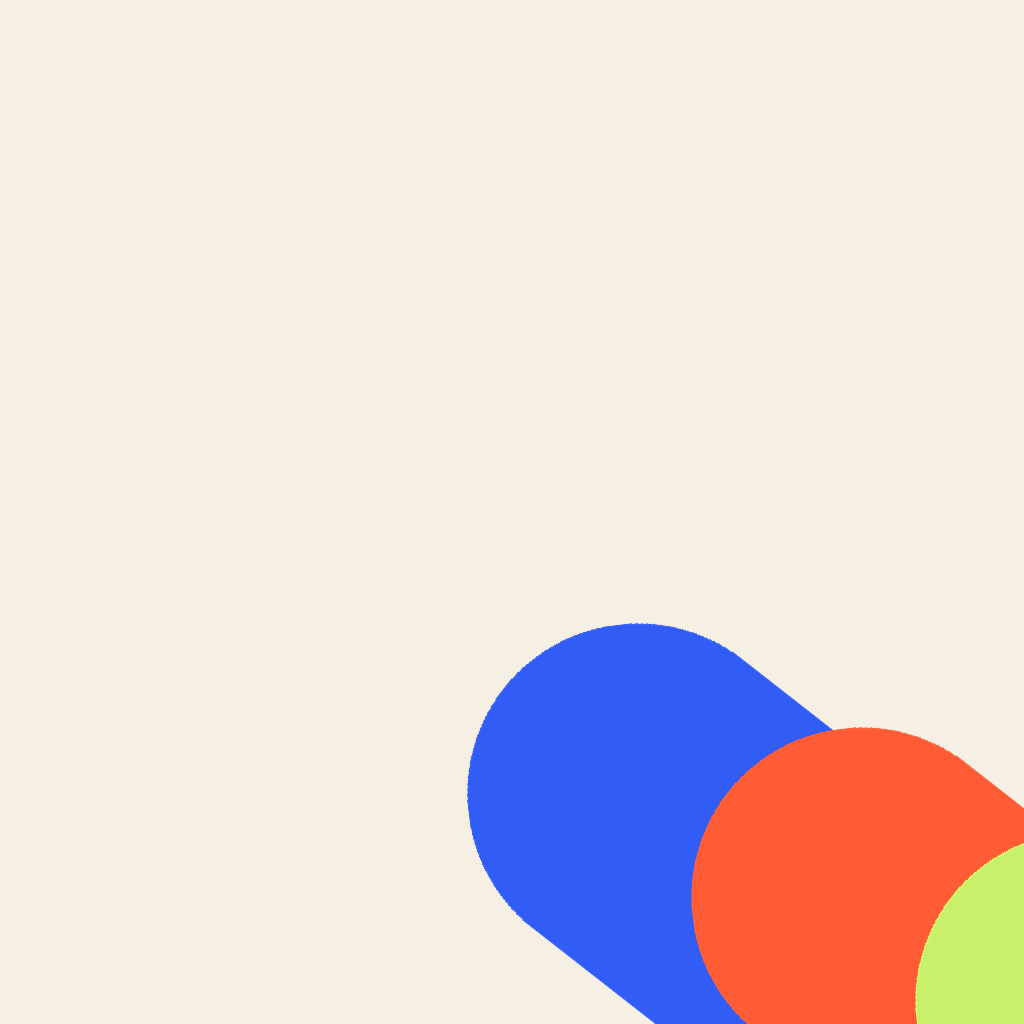
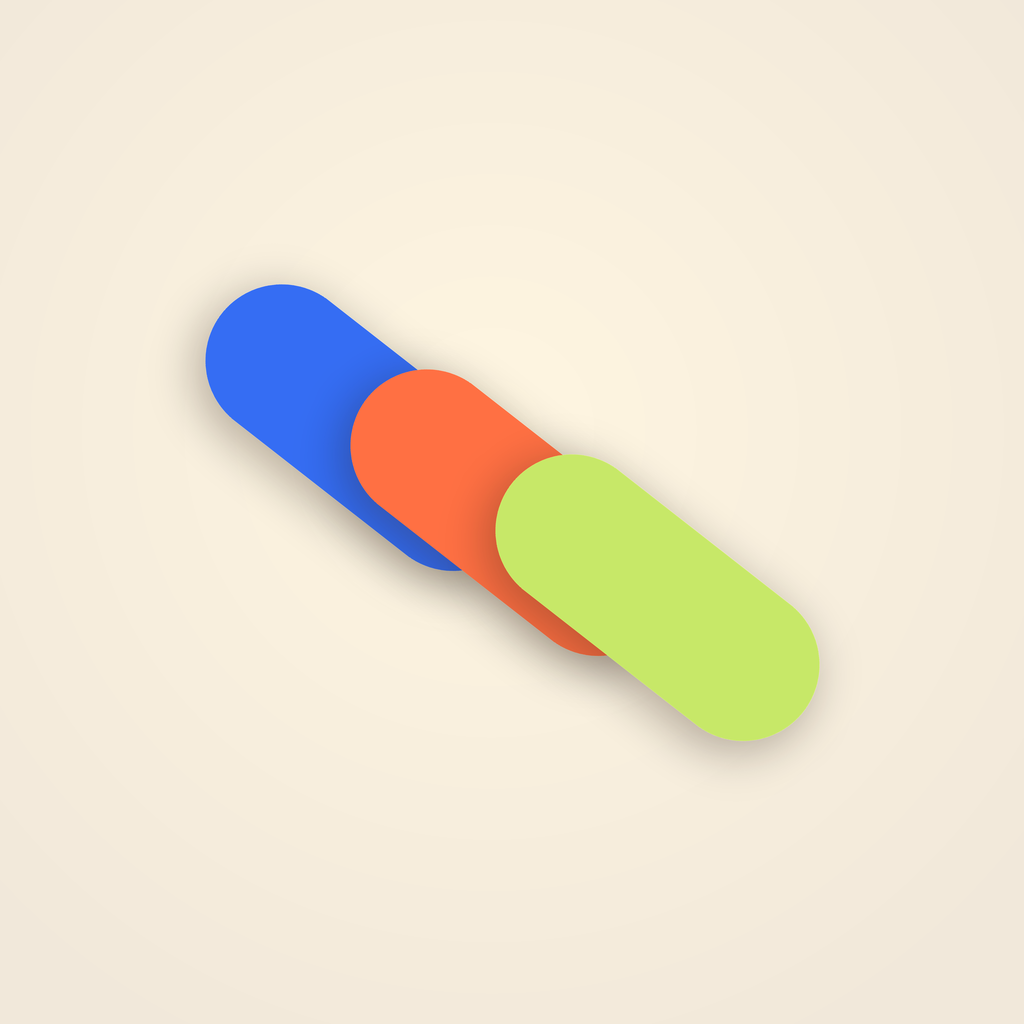
Expand editor tools and install artwork

Changed region(s): [[0.1562, 0.25, 1.0, 1.0]]

diff --git a/index.html b/index.html
@@ -11,9 +11,9 @@
       content="Jotfield is a private, local-first notebook for capturing ideas and finding their connections."
     />
     <title>Jotfield | A place for every thought</title>
-    <link rel="icon" type="image/svg+xml" sizes="any" href="./jotfield-icon.svg?v=4" />
+    <link rel="icon" type="image/svg+xml" sizes="any" href="./jotfield-icon.svg?v=5" />
     <link rel="manifest" href="./manifest.webmanifest" />
-    <link rel="apple-touch-icon" sizes="180x180" href="./apple-touch-icon.png?v=2" />
+    <link rel="apple-touch-icon" sizes="180x180" href="./apple-touch-icon.png?v=5" />
     <link rel="stylesheet" href="./styles.css" />
   </head>
   <body>
@@ -176,16 +176,26 @@
                 <button type="button" data-format="italic" aria-label="Italic" title="Italic (⌘I)"><svg><use href="#i-italic"/></svg></button>
                 <button type="button" data-format="underline" aria-label="Underline" title="Underline (⌘U)"><u>U</u></button>
                 <button type="button" data-format="strike" aria-label="Strikethrough" title="Strikethrough (⌘⇧X)"><s>S</s></button>
+                <button type="button" data-format="highlight" aria-label="Highlight" title="Highlight (⌘⇧H)"><mark>A</mark></button>
                 <span></span>
                 <button type="button" data-format="paragraph" aria-label="Paragraph" title="Paragraph">¶</button>
-                <button type="button" data-format="h2" aria-label="Heading" title="Heading">H</button>
+                <button type="button" data-format="h1" aria-label="Heading 1" title="Heading 1">H1</button>
+                <button type="button" data-format="h2" aria-label="Heading 2" title="Heading 2">H2</button>
+                <button type="button" data-format="h3" aria-label="Heading 3" title="Heading 3">H3</button>
                 <button type="button" data-format="bullet" aria-label="Bulleted list" title="Bulleted list"><svg><use href="#i-list-bullet"/></svg></button>
                 <button type="button" data-format="ordered" aria-label="Numbered list" title="Numbered list"><span class="ordered-mark">1.</span></button>
                 <button type="button" data-insert-checklist data-format="checklist" aria-label="Checklist" title="Checklist"><svg><use href="#i-check"/></svg></button>
                 <button type="button" data-format="blockquote" aria-label="Quote" title="Quote"><svg><use href="#i-quote"/></svg></button>
                 <button type="button" data-format="code" aria-label="Code block" title="Code block"><span class="code-mark">&lt;/&gt;</span></button>
+                <button type="button" data-format="divider" aria-label="Horizontal divider" title="Horizontal divider">―</button>
                 <span></span>
+                <button type="button" data-format="left" aria-label="Align left" title="Align left">≡</button>
+                <button type="button" data-format="center" aria-label="Align center" title="Align center">≣</button>
+                <button type="button" data-format="right" aria-label="Align right" title="Align right">≡</button>
+                <button type="button" data-format="outdent" aria-label="Outdent" title="Outdent">‹</button>
+                <button type="button" data-format="indent" aria-label="Indent" title="Indent">›</button>
                 <button type="button" data-insert-link aria-label="Add link" title="Add link"><svg><use href="#i-link"/></svg></button>
+                <button type="button" data-format="unlink" aria-label="Remove link" title="Remove link"><span class="unlink-mark">×</span></button>
                 <button type="button" data-attach aria-label="Attach file" title="Attach file"><svg><use href="#i-attach"/></svg></button>
                 <button type="button" data-format="clear" aria-label="Clear formatting" title="Clear formatting"><span class="clear-mark">Tx</span></button>
                 <span class="toolbar-spacer"></span>
@@ -195,7 +205,7 @@
               <div class="body-input" id="body-input"></div>
             </div>
             <div class="statusbar">
-              <span id="word-count">0 words</span><span>Markdown shortcuts</span><span id="edited-time">Edited now</span>
+              <span id="word-count">0 words</span><span id="character-count">0 characters</span><span id="reading-time">0 min read</span><span id="edited-time">Edited now</span>
             </div>
           </article>
         </main>
@@ -388,11 +398,15 @@
     <input type="file" id="vault-input" accept="application/jotfield-vault,.jotvault" hidden />
     <input type="file" id="note-files-input" accept=".md,.markdown,.txt,.html,.htm,text/markdown,text/plain,text/html" multiple hidden />
     <div class="slash-menu" id="slash-menu" hidden role="listbox" aria-label="Insert block">
-      <button type="button" data-slash="h2"><b>H</b><span><strong>Heading</strong><small>Large section title</small></span></button>
+      <button type="button" data-slash="h1"><b>H1</b><span><strong>Heading 1</strong><small>Page-level section title</small></span></button>
+      <button type="button" data-slash="h2"><b>H2</b><span><strong>Heading 2</strong><small>Large section title</small></span></button>
+      <button type="button" data-slash="h3"><b>H3</b><span><strong>Heading 3</strong><small>Smaller section title</small></span></button>
       <button type="button" data-slash="ul"><b>•</b><span><strong>Bullet list</strong><small>Start an unordered list</small></span></button>
+      <button type="button" data-slash="ol"><b>1.</b><span><strong>Numbered list</strong><small>Start an ordered list</small></span></button>
       <button type="button" data-slash="check"><b>✓</b><span><strong>Checklist</strong><small>Track something to finish</small></span></button>
       <button type="button" data-slash="quote"><b>“</b><span><strong>Quote</strong><small>Set a passage apart</small></span></button>
       <button type="button" data-slash="code"><b>&lt;/&gt;</b><span><strong>Code</strong><small>Preserve spacing and syntax</small></span></button>
+      <button type="button" data-slash="divider"><b>―</b><span><strong>Divider</strong><small>Separate sections visually</small></span></button>
     </div>
     <div class="toast-region" id="toast-region" aria-live="polite"></div>
     <div class="control-tooltip" id="control-tooltip" role="tooltip" hidden></div>

diff --git a/src/editor.js b/src/editor.js
@@ -8,7 +8,18 @@ import { history, redo, undo } from 'prosemirror-history';
 import { keymap } from 'prosemirror-keymap';
 import { inputRules, textblockTypeInputRule, wrappingInputRule } from 'prosemirror-inputrules';
 
-const nodes = addListNodes(basicSchema.spec.nodes, 'paragraph block*', 'block').append({
+let baseNodes = addListNodes(basicSchema.spec.nodes, 'paragraph block*', 'block');
+baseNodes = baseNodes.update('paragraph', {
+  ...baseNodes.get('paragraph'), attrs: { align: { default: null } },
+  parseDOM: [{ tag: 'p', getAttrs: (dom) => ({ align: dom.style.textAlign || null }) }],
+  toDOM: (node) => ['p', node.attrs.align ? { style: `text-align:${node.attrs.align}` } : {}, 0],
+});
+baseNodes = baseNodes.update('heading', {
+  ...baseNodes.get('heading'), attrs: { level: { default: 1 }, align: { default: null } },
+  parseDOM: [1, 2, 3, 4, 5, 6].map((level) => ({ tag: `h${level}`, attrs: { level }, getAttrs: (dom) => ({ level, align: dom.style.textAlign || null }) })),
+  toDOM: (node) => [`h${node.attrs.level}`, node.attrs.align ? { style: `text-align:${node.attrs.align}` } : {}, 0],
+});
+const nodes = baseNodes.append({
   task_list: {
     group: 'block', content: 'task_item+',
     parseDOM: [{ tag: 'ul.task-list', priority: 60 }],
@@ -46,6 +57,10 @@ const marks = basicSchema.spec.marks.append({
     parseDOM: [{ tag: 's' }, { tag: 'strike' }, { style: 'text-decoration', getAttrs: (value) => String(value).includes('line-through') && null }],
     toDOM: () => ['s', 0],
   },
+  highlight: {
+    parseDOM: [{ tag: 'mark' }, { style: 'background-color', getAttrs: (value) => value !== 'transparent' && null }],
+    toDOM: () => ['mark', 0],
+  },
 });
 
 export const editorSchema = new Schema({ nodes, marks });
@@ -79,6 +94,7 @@ function plugins() {
       'Mod-i': toggleMark(editorSchema.marks.em),
       'Mod-u': toggleMark(editorSchema.marks.underline),
       'Mod-Shift-x': toggleMark(editorSchema.marks.strike),
+      'Mod-Shift-h': toggleMark(editorSchema.marks.highlight),
       'Mod-z': undo,
       'Shift-Mod-z': redo,
       'Mod-y': redo,
@@ -107,8 +123,11 @@ function updateToolbar() {
   if (!view || !toolbar) return;
   const active = {
     bold: markActive(editorSchema.marks.strong), italic: markActive(editorSchema.marks.em),
-    underline: markActive(editorSchema.marks.underline), strike: markActive(editorSchema.marks.strike),
-    h2: nodeActive(editorSchema.nodes.heading), bullet: nodeActive(editorSchema.nodes.bullet_list),
+    underline: markActive(editorSchema.marks.underline), strike: markActive(editorSchema.marks.strike), highlight: markActive(editorSchema.marks.highlight),
+    h1: view.state.selection.$from.parent.type === editorSchema.nodes.heading && view.state.selection.$from.parent.attrs.level === 1,
+    h2: view.state.selection.$from.parent.type === editorSchema.nodes.heading && view.state.selection.$from.parent.attrs.level === 2,
+    h3: view.state.selection.$from.parent.type === editorSchema.nodes.heading && view.state.selection.$from.parent.attrs.level === 3,
+    bullet: nodeActive(editorSchema.nodes.bullet_list),
     ordered: nodeActive(editorSchema.nodes.ordered_list), checklist: nodeActive(editorSchema.nodes.task_list),
     blockquote: nodeActive(editorSchema.nodes.blockquote), code: nodeActive(editorSchema.nodes.code_block),
   };
@@ -182,17 +201,40 @@ function toggleList(type) {
 }
 
 export function runEditorAction(action, value = null) {
+  const setAlignment = (align) => {
+    const { from, to } = view.state.selection;
+    let transaction = view.state.tr;
+    view.state.doc.nodesBetween(from, to, (node, position) => {
+      if (node.type === editorSchema.nodes.paragraph || node.type === editorSchema.nodes.heading) transaction = transaction.setNodeMarkup(position, undefined, { ...node.attrs, align: align === 'left' ? null : align });
+    });
+    if (view.state.selection.$from.parent.type === editorSchema.nodes.paragraph || view.state.selection.$from.parent.type === editorSchema.nodes.heading) {
+      const position = view.state.selection.$from.before();
+      transaction = transaction.setNodeMarkup(position, undefined, { ...view.state.selection.$from.parent.attrs, align: align === 'left' ? null : align });
+    }
+    if (!transaction.docChanged) return false;
+    view.dispatch(transaction.scrollIntoView()); view.focus(); return true;
+  };
   const actions = {
     bold: () => run(toggleMark(editorSchema.marks.strong)),
     italic: () => run(toggleMark(editorSchema.marks.em)),
     underline: () => run(toggleMark(editorSchema.marks.underline)),
     strike: () => run(toggleMark(editorSchema.marks.strike)),
+    highlight: () => run(toggleMark(editorSchema.marks.highlight)),
+    h1: () => run(setBlockType(editorSchema.nodes.heading, { level: 1 })),
     h2: () => run(setBlockType(editorSchema.nodes.heading, { level: 2 })),
+    h3: () => run(setBlockType(editorSchema.nodes.heading, { level: 3 })),
     paragraph: () => run(setBlockType(editorSchema.nodes.paragraph)),
     bullet: () => toggleList(editorSchema.nodes.bullet_list),
     ordered: () => toggleList(editorSchema.nodes.ordered_list),
     blockquote: () => nodeActive(editorSchema.nodes.blockquote) ? run(lift) : run(wrapIn(editorSchema.nodes.blockquote)),
     code: () => run(setBlockType(editorSchema.nodes.code_block)),
+    left: () => setAlignment('left'), center: () => setAlignment('center'), right: () => setAlignment('right'),
+    indent: () => run(sinkListItem(editorSchema.nodes.list_item)),
+    outdent: () => run(liftListItem(editorSchema.nodes.list_item)),
+    divider: () => {
+      const divider = editorSchema.nodes.horizontal_rule.create();
+      view.dispatch(view.state.tr.replaceSelectionWith(divider).scrollIntoView()); view.focus(); return true;
+    },
     undo: () => run(undo), redo: () => run(redo),
     clear: () => {
       const { from, to } = view.state.selection;
@@ -207,6 +249,7 @@ export function runEditorAction(action, value = null) {
       view.dispatch(view.state.tr.insertText(value, from, to).addMark(from, from + value.length, mark));
       view.focus(); return true;
     },
+    unlink: () => run(toggleMark(editorSchema.marks.link)),
   };
   return actions[action]?.() || false;
 }

diff --git a/styles.css b/styles.css
@@ -276,6 +276,10 @@ svg { width: 19px; height: 19px; fill: none; stroke: currentColor; stroke-width:
 .body-input.ProseMirror p:first-child:last-child:empty:before { content: attr(data-placeholder); color: #b6ad9f; pointer-events: none; }
 .body-input p { margin: 0 0 .82em; }
 .body-input h2 { margin: 1.35em 0 .45em; color: var(--ink); font: 500 1.55em/1.25 Georgia, "Times New Roman", serif; letter-spacing: -.35px; }
+.body-input h1 { margin: 1.25em 0 .45em; color: var(--ink); font: 550 2em/1.18 Georgia, "Times New Roman", serif; letter-spacing: -.6px; }
+.body-input h3 { margin: 1.3em 0 .4em; color: var(--ink); font: 600 1.18em/1.3 -apple-system, sans-serif; }
+.body-input mark { padding: .05em .16em; border-radius: .22em; background: rgba(255,191,74,.32); color: inherit; }
+.body-input hr { margin: 2em 0; border: 0; border-top: 1px solid var(--line-bright); }
 .body-input blockquote { margin: 1.2em 0; padding: .1em 0 .1em 18px; border-left: 3px solid #ff5c35; color: var(--muted); }
 .body-input pre { margin: 1.1em 0; padding: 15px 17px; overflow-x: auto; border: 1px solid var(--line); border-radius: 10px; background: rgba(43,36,28,.055); font: 13px/1.65 "SFMono-Regular", Consolas, monospace; }
 .body-input ul, .body-input ol { margin: .6em 0 1em; padding-left: 1.5em; }
@@ -300,7 +304,7 @@ svg { width: 19px; height: 19px; fill: none; stroke: currentColor; stroke-width:
 .format-toolbar > span:not(.toolbar-spacer) { width: 1px; height: 18px; margin: 0 3px; background: var(--line); }
 .format-toolbar .toolbar-spacer { flex: 1; }
 .code-mark { font: 600 10px/1 "SFMono-Regular", Consolas, monospace; }
-.ordered-mark, .clear-mark { font: 650 11px/1 -apple-system, sans-serif; }
+.ordered-mark, .clear-mark, .unlink-mark { font: 650 11px/1 -apple-system, sans-serif; }
 .slash-menu { position: fixed; z-index: 60; width: 275px; padding: 6px; border: 1px solid var(--line-bright); border-radius: 14px; background: rgba(251,247,238,.97); box-shadow: 0 22px 65px rgba(63,42,20,.2); backdrop-filter: blur(25px); }
 .slash-menu[hidden] { display: none; }
 .slash-menu button { width: 100%; display: grid; grid-template-columns: 34px 1fr; align-items: center; gap: 9px; padding: 7px; border: 0; border-radius: 9px; background: transparent; color: var(--ink); text-align: left; cursor: pointer; }

diff --git a/app.js b/app.js
@@ -1262,6 +1262,9 @@ function scheduleReminderCheck() {
 function updateWordCount(note) {
   const words = note.body.trim() ? note.body.trim().split(/\s+/).length : 0;
   $('#word-count').textContent = `${words} ${words === 1 ? 'word' : 'words'}`;
+  const characters = note.body.length;
+  $('#character-count').textContent = `${characters} ${characters === 1 ? 'character' : 'characters'}`;
+  $('#reading-time').textContent = `${words ? Math.max(1, Math.ceil(words / 220)) : 0} min read`;
 }
 
 function selectNote(id, focus = false) {
@@ -1365,11 +1368,15 @@ function closeSlashMenu() {
 
 function applySlashAction(action) {
   deleteSlashTrigger();
+  if (action === 'h1') runEditorAction('h1');
   if (action === 'h2') runEditorCommand('formatBlock', 'h2');
+  if (action === 'h3') runEditorAction('h3');
   if (action === 'ul') runEditorCommand('insertUnorderedList');
+  if (action === 'ol') runEditorAction('ordered');
   if (action === 'check') insertChecklist();
   if (action === 'quote') runEditorCommand('formatBlock', 'blockquote');
   if (action === 'code') runEditorCommand('formatBlock', 'pre');
+  if (action === 'divider') runEditorAction('divider');
   closeSlashMenu();
 }
 

diff --git a/public/sw.js b/public/sw.js
@@ -1,5 +1,5 @@
-const CACHE_NAME = 'jotfield-app-3';
-const APP_SHELL = ['./', './index.html', './manifest.webmanifest', './jotfield-icon.svg'];
+const CACHE_NAME = 'jotfield-app-4';
+const APP_SHELL = ['./', './index.html', './manifest.webmanifest', './jotfield-icon.svg', './jotfield-icon-192.png', './jotfield-icon-512.png', './apple-touch-icon.png'];
 
 self.addEventListener('install', (event) => {
   event.waitUntil(caches.open(CACHE_NAME).then((cache) => cache.addAll(APP_SHELL)));

diff --git a/scripts/generate-icons.py b/scripts/generate-icons.py
@@ -1,0 +1,53 @@
+from pathlib import Path
+from PIL import Image, ImageDraw, ImageFilter
+
+ROOT = Path(__file__).resolve().parents[1] / 'public'
+MASTER = 4096
+COLORS = ('#356df3', '#ff7043', '#c7e868')
+
+def background(size):
+    im = Image.new('RGB', (size, size), '#f7f1e7')
+    px = im.load()
+    for y in range(size):
+        for x in range(size):
+            dx, dy = (x-size*.48)/size, (y-size*.42)/size
+            r = min(1, (dx*dx+dy*dy)**.5/.7)
+            glow = int(14*(1-r))
+            px[x,y] = (min(255, 241+glow), min(255, 232+glow), min(255, 218+glow//2))
+    return im
+
+def capsule(color, length, thick, angle):
+    pad = thick
+    layer = Image.new('RGBA', (length+pad*2, thick+pad*2))
+    shadow = Image.new('RGBA', layer.size)
+    ImageDraw.Draw(shadow).rounded_rectangle((pad, pad, pad+length, pad+thick), radius=thick//2, fill=(60,35,20,85))
+    shadow = shadow.filter(ImageFilter.GaussianBlur(thick//7))
+    shape = Image.new('RGBA', layer.size)
+    d = ImageDraw.Draw(shape)
+    d.rounded_rectangle((pad, pad, pad+length, pad+thick), radius=thick//2, fill=color)
+    layer.alpha_composite(shadow, (0, thick//12))
+    layer.alpha_composite(shape)
+    return layer.rotate(angle, resample=Image.Resampling.BICUBIC, expand=True)
+
+def compose(scale=1.0):
+    im = background(MASTER).convert('RGBA')
+    length, thick = int(1480*scale), int(610*scale)
+    centers = [(1470,1710),(2050,2050),(2630,2390)]
+    center0=(2050,2050)
+    for color, (cx,cy) in zip(COLORS, centers):
+        cx = int(center0[0] + (cx-center0[0])*scale)
+        cy = int(center0[1] + (cy-center0[1])*scale)
+        item = capsule(color, length, thick, -38)
+        im.alpha_composite(item, (cx-item.width//2, cy-item.height//2))
+    return im.convert('RGB')
+
+regular = compose(1.0)
+maskable = compose(.78)
+regular.save(ROOT/'jotfield-icon-4096.png', optimize=True)
+for size in (1024,512,384,192,180):
+    out = regular.resize((size,size), Image.Resampling.LANCZOS)
+    name = 'apple-touch-icon.png' if size == 180 else f'jotfield-icon-{size}.png'
+    out.save(ROOT/name, optimize=True)
+for size in (1024,512):
+    maskable.resize((size,size), Image.Resampling.LANCZOS).save(ROOT/f'jotfield-icon-maskable-{size}.png', optimize=True)
+print('Generated Jotfield icon family from a 4096 px master')
